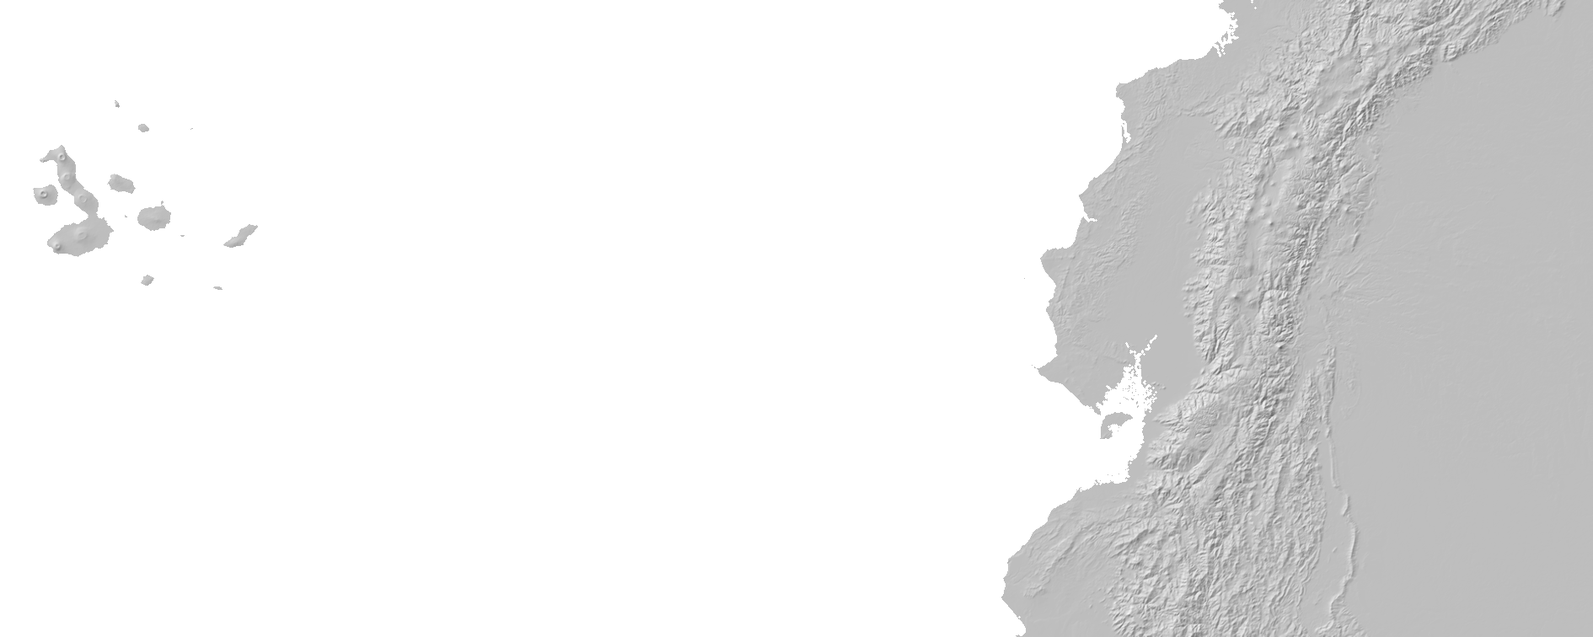
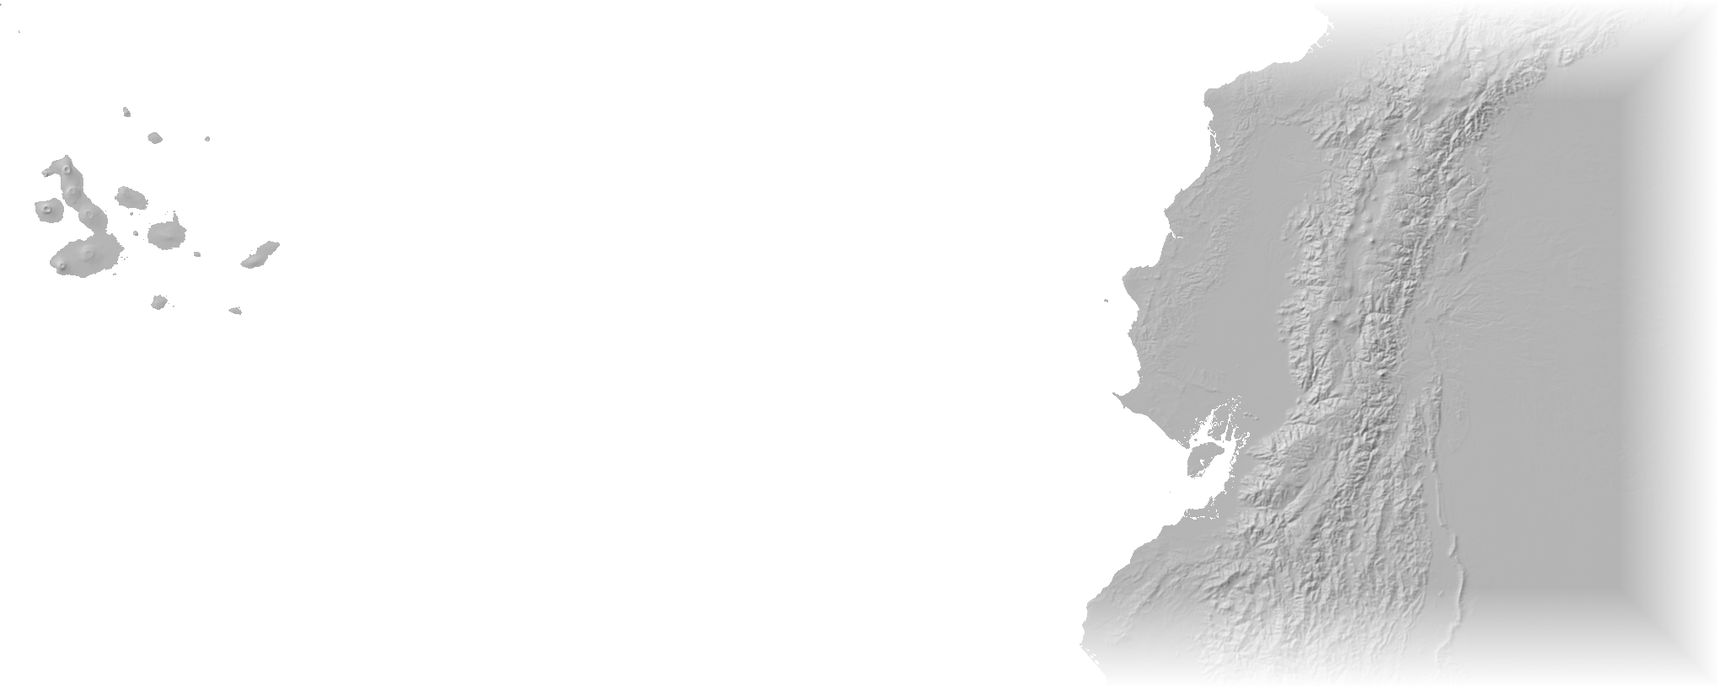
Relieve de la Tierra y de Ecuador desde SRTMGL30 V002 (NASA) y sombreado calculado directo en Mercator para Luna, Marte y Tierra, sin escalones a latitudes altas.

Changed region(s): [[0.6243, 0.0, 1.0, 1.0], [0.6868, 0.5476, 0.7492, 0.7606], [0.0624, 0.2738, 0.0937, 0.3042]]

diff --git a/web/scripts/basemap_relieve.py b/web/scripts/basemap_relieve.py
@@ -1,21 +1,34 @@
 #!/usr/bin/env python3
-"""Relieve sombreado uniforme para el globo del tablero (Luna y Marte, datos NASA PDS).
+"""Relieve sombreado uniforme para el globo del tablero (Luna, Marte y Tierra, datos NASA).
 
-Método (igual para todos los cuerpos):
-  * DEM promediado por área a una malla equirectangular de 2048×1024.
-  * Horn 3×3, acimut geográfico 315° (luz desde el noroeste), altura solar 45°.
-  * Celda métrica a partir del radio del cuerpo: dx = R·Δλ·cos φ, dy = R·Δφ.
-  * Exageración vertical z = tamaño de píxel ecuatorial (m) / 1066.
-  * Salida clip(hs, 0, 1)·255, sin percentiles ni gamma; alfa 255, nodata alfa 0.
-  * Reproyección a Web Mercator 2048×2048 que cubre exactamente las esquinas WORLD
-    de web/src/maps.ts (lon ±179.9°, lat ±85°), para que la capa image de MapLibre
-    ponga cada cráter en su latitud real.
+Método (igual para Luna, Marte y Tierra):
+  * DEM promediado (bloques 3×3) a una malla fina y luego promediado por área exacta
+    directamente en la malla Web Mercator de salida, 2048×2048, que cubre las esquinas WORLD
+    de web/src/maps.ts (lon ±179,9°, lat ±85°). Así cada cráter cae en su latitud real y
+    no hay escalones a latitudes altas.
+  * Horn 3×3 en esa malla, acimut geográfico 315° (luz desde el noroeste), altura solar 45°.
+  * Celda métrica a partir del radio del cuerpo: Mercator es conforme, la celda mide
+    R·Δλ·cos φ en x y en y (= dx = R·Δλ·cos φ, dy = R·Δφ a esta escala).
+  * Exageración vertical z = tamaño de píxel ecuatorial (m) / 1066, una sola por cuerpo.
+  * Salida clip(hs, 0, 1)·255, sin percentiles ni gamma; alfa 255 en tierra, mar/nodata alfa 0.
+  * Ecuador: lo mismo a 30" nativo (≈926,6 m, z = 0,87) sobre AREA_BOUNDS.completo, filas en
+    y de Mercator, con una rampa de alfa de FEATHER_PX píxeles en los bordes del recuadro al
+    este de 82°W, para que no se vea el corte sobre Colombia y Perú (Galápagos no se toca).
 
-Solo lee los IMG originales del PDS (numpy + Pillow, sin GDAL). No toca δ ni el índice.
+Cuerpos: luna (LOLA LDEM_64), marte (MOLA MEGDR 64 ppd), tierra (SRTMGL30 V002, global)
+y ecuador (SRTMGL30 V002 a 30" nativo, recortado a AREA_BOUNDS.completo de maps.ts).
+
+Tierra/Ecuador: los .DEM de SRTMGL30 vienen sin .hdr; formato GTOPO30: int16 big-endian,
+6000 filas × 4800 columnas por tesela de 40° lon × 50° lat, celda 30" (1/120°), esquina
+superior izquierda = nombre de la tesela (p. ej. W100N40 -> lon -100, lat 40). nodata = -9999
+(no aparece en V002) y el mar viene como 0 m: 0 y -9999 se tratan como mar/nodata (alfa 0).
+SRTMGL30 llega solo hasta 60°S: la Antártida queda transparente (alfa 0).
+
+Solo lee los archivos originales (numpy + Pillow, sin GDAL). No toca δ ni el índice.
 
 Uso:
-  python3 web/scripts/basemap_relieve.py luna marte
-  python3 web/scripts/basemap_relieve.py --raw /ruta/a/data/raw --out web/public/basemap luna
+  python3 web/scripts/basemap_relieve.py luna marte tierra ecuador
+  python3 web/scripts/basemap_relieve.py --raw /ruta/a/data/raw --srtm /ruta/teselas --out web/public/basemap tierra
 """
 from __future__ import annotations
 
@@ -29,17 +42,22 @@ from PIL import Image
 AZIMUTH_DEG = 315.0          # geográfico, horario desde el norte
 ALTITUDE_DEG = 45.0
 Z_DIVISOR = 1066.0           # z = tamaño de píxel ecuatorial en metros / 1066
-EQ_W, EQ_H = 2048, 1024      # malla equirectangular de cálculo
+FEATHER_PX = 120             # Ecuador: rampa de alfa en los bordes del recuadro (≈110 km)
+FEATHER_DESDE_LON = -82.0    # solo al este de aquí (continente); Galápagos no se toca
 OUT_W, OUT_H = 2048, 2048    # PNG Web Mercator
 # Esquinas de la capa image en web/src/maps.ts (const WORLD)
 WORLD_LON = 179.9
 WORLD_LAT = 85.0
 
 DEFAULT_RAW = Path("/workspace/analogs/data/raw")
+DEFAULT_SRTM = Path("/workspace/data_nasa/srtmgl30/unz")   # *.DEM descomprimidos
+R_TIERRA = 6371008.8                                        # radio medio IUGG (m)
+# AREA_BOUNDS.completo de web/src/maps.ts (capa hs_ecuador, imageCoords)
+ECUADOR = dict(oeste=-92.007, sur=-5.103, este=-74.997, norte=1.701)
 DEFAULT_OUT = Path(__file__).resolve().parents[1] / "public" / "basemap"
 
 
-# ---------------------------------------------------------------- lectura PDS
+# ---------------------------------------------------------------- lectura
 def _block_mean(src: np.ndarray, scale: float, offset: float, f: int) -> np.ndarray:
     """Promedio por bloques f×f leyendo por franjas (memmap)."""
     h, w = src.shape
@@ -52,111 +70,207 @@ def _block_mean(src: np.ndarray, scale: float, offset: float, f: int) -> np.ndar
     return out
 
 
-def _area_resize(a: np.ndarray, w: int, h: int) -> np.ndarray:
-    im = Image.fromarray(a.astype(np.float32), mode="F")
-    return np.asarray(im.resize((w, h), Image.Resampling.BOX), dtype=np.float64)
+# SRTMGL30 V002: teselas GTOPO30 de 40° lon × 50° lat, celda 30", sin .hdr
+SRTM_ROWS, SRTM_COLS, SRTM_CELL = 6000, 4800, 1.0 / 120.0
 
 
-def leer_luna(raw: Path) -> np.ndarray:
-    """LOLA LDEM_64 (23040×11520, int16 LSB, 0.5 m/DN, lon 0→360 E, fila 0 = 90°N)."""
-    p = raw / "moon/lola_ldem64/ldem_64.img"
-    a = np.memmap(p, dtype="<i2", mode="r", shape=(11520, 23040))
-    return _area_resize(_block_mean(a, 0.5, 0.0, 9), EQ_W, EQ_H)
-
-
-def leer_marte(raw: Path) -> np.ndarray:
-    """MOLA MEGDR 64 ppd (4 teselas 5760×11520, int16 MSB, m sobre el areoide)."""
-    d = raw / "mars/mola_megdr64"
-    t = {k: np.memmap(d / f"megt{k}gb.img", dtype=">i2", mode="r", shape=(5760, 11520))
-         for k in ("90n000", "90n180", "00n000", "00n180")}
-    norte = np.hstack([_block_mean(t["90n000"], 1, 0, 9), _block_mean(t["90n180"], 1, 0, 9)])
-    sur = np.hstack([_block_mean(t["00n000"], 1, 0, 9), _block_mean(t["00n180"], 1, 0, 9)])
-    return _area_resize(np.vstack([norte, sur]), EQ_W, EQ_H)
+def _tesela_srtm(path: Path) -> tuple[np.ndarray, float, float]:
+    n = path.name.upper()
+    lon = (-1 if n[0] == "W" else 1) * int(n[1:4])
+    lat = (-1 if n[4] == "S" else 1) * int(n[5:7])
+    a = np.fromfile(path, dtype=">i2")
+    assert a.size == SRTM_ROWS * SRTM_COLS, path
+    return a.reshape(SRTM_ROWS, SRTM_COLS), lon, lat
 
 
 CUERPOS = {
-    # nombre: (radio m, lector, archivo, fuente)
-    "luna": (1737400.0, leer_luna, "hillshade_luna.png",
+    # nombre: (radio m, archivo, fuente)
+    "luna": (1737400.0, "hillshade_luna.png",
              "LOLA LDEM_64 (LRO-L-LOLA-3-RDR-V1, NASA PDS Geosciences)"),
-    "marte": (3396000.0, leer_marte, "hillshade_marte.png",
+    "marte": (3396000.0, "hillshade_marte.png",
               "MOLA MEGDR 64 ppd MEGT (MGS-M-MOLA-5-MEGDR-L3-V1.0, NASA PDS Geosciences)"),
+    "tierra": (R_TIERRA, "hillshade_tierra.png",
+               "SRTMGL30 V002 (NASA JPL / LP DAAC, doi:10.5067/MEaSUREs/SRTM/SRTMGL30.002)"),
 }
 
 
-# ---------------------------------------------------------------- sombreado
-def horn_hillshade(z: np.ndarray, radius: float, zfactor: float) -> np.ndarray:
-    """Horn 3×3 en malla equirectangular global (lon con vuelta, fila 0 = norte)."""
-    h, w = z.shape
-    dlam = 2 * math.pi / w
-    dphi = math.pi / h
-    lat = (90.0 - (np.arange(h) + 0.5) * 180.0 / h)
-    dx = (radius * dlam * np.cos(np.radians(lat)))[:, None]
-    dy = radius * dphi
-    p = np.pad(z, ((1, 1), (0, 0)), mode="edge")
-    W = lambda a: np.roll(a, 1, axis=1)   # vecino oeste
-    E = lambda a: np.roll(a, -1, axis=1)  # vecino este
-    up, mid, dn = p[:-2], p[1:-1], p[2:]
-    dzdx = ((E(up) + 2 * E(mid) + E(dn)) - (W(up) + 2 * W(mid) + W(dn))) / (8 * dx)
-    dzdn = ((W(up) + 2 * up + E(up)) - (W(dn) + 2 * dn + E(dn))) / (8 * dy)  # hacia el norte
-    nx, ny, nz = -zfactor * dzdx, -zfactor * dzdn, np.ones_like(dzdx)
-    norm = np.sqrt(nx * nx + ny * ny + nz * nz)
-    az, alt = math.radians(AZIMUTH_DEG), math.radians(ALTITUDE_DEG)
-    lx, ly, lz = math.sin(az) * math.cos(alt), math.cos(az) * math.cos(alt), math.sin(alt)
-    return (nx * lx + ny * ly + nz * lz) / norm
+# ------------------------------------------------- malla fina + Mercator nativo
+# El sombreado se calcula directamente en la malla Mercator de salida (2048×2048 sobre WORLD).
+# Cada fila es un promedio por área exacto de la malla fina (1/3 de la resolución nativa),
+# así que a latitudes altas no hay escalones por ampliar una malla gruesa.
+# Mercator es conforme: la celda mide R·Δλ·cos φ en x y en y (pendiente física real en cada fila).
+# z es uno solo por cuerpo: tamaño de píxel ecuatorial (m) / 1066 (Luna 5,00; Marte 9,77;
+# Tierra 18,33), así la misma pendiente física se sombrea igual a cualquier latitud.
+
+def fino_luna(raw: Path):
+    a = np.memmap(raw / "moon/lola_ldem64/ldem_64.img", dtype="<i2", mode="r", shape=(11520, 23040))
+    return _block_mean(a, 0.5, 0.0, 3), None, 0.0, 3 / 64.0          # lon 0 en columna 0
 
 
-# ---------------------------------------------------------------- Mercator
-def a_mercator(hs: np.ndarray) -> np.ndarray:
-    """Remuestrea (bilineal) la malla equirectangular a Web Mercator sobre WORLD."""
-    h, w = hs.shape
+def fino_marte(raw: Path):
+    d = raw / "mars/mola_megdr64"
+    t = {k: np.memmap(d / f"megt{k}gb.img", dtype=">i2", mode="r", shape=(5760, 11520))
+         for k in ("90n000", "90n180", "00n000", "00n180")}
+    z = np.vstack([np.hstack([_block_mean(t["90n000"], 1, 0, 3), _block_mean(t["90n180"], 1, 0, 3)]),
+                   np.hstack([_block_mean(t["00n000"], 1, 0, 3), _block_mean(t["00n180"], 1, 0, 3)])])
+    return z, None, 0.0, 3 / 64.0
+
+
+def fino_tierra(srtm: Path):
+    f = 3
+    res = SRTM_CELL * f                                           # 1/40° ≈ 2,8 km
+    H, W = int(round(180 / res)), int(round(360 / res))
+    elev = np.zeros((H, W), np.float32); land = np.zeros((H, W), np.float32)
+    teselas = sorted(srtm.glob("*.DEM"))
+    assert len(teselas) == 27, f"se esperaban 27 teselas, hay {len(teselas)}"
+    for p in teselas:
+        a, lon, lat = _tesela_srtm(p)
+        ok = (a != -9999) & (a != 0)                               # 0 m = mar en SRTMGL30 V002
+        h, w = SRTM_ROWS // f, SRTM_COLS // f
+        r0, c0 = int(round((90 - lat) / res)), int(round((lon + 180) / res))
+        elev[r0:r0 + h, c0:c0 + w] = np.where(ok, a, 0).astype(np.float32).reshape(h, f, w, f).mean(axis=(1, 3))
+        land[r0:r0 + h, c0:c0 + w] = ok.astype(np.float32).reshape(h, f, w, f).mean(axis=(1, 3))
+    return elev, land, -180.0, res                                  # sur de 60°S: land = 0
+
+
+def _rows_area_mean(a: np.ndarray, top: np.ndarray, bot: np.ndarray) -> np.ndarray:
+    """Promedio exacto por área entre las filas fraccionarias [top, bot) (cumsum interpolado)."""
+    cum = np.vstack([np.zeros((1, a.shape[1])), np.cumsum(a, axis=0, dtype=np.float64)])
+    def C(x):
+        i = np.clip(np.floor(x).astype(int), 0, a.shape[0] - 1)
+        t = (x - i)[:, None]
+        return cum[i] + (cum[i + 1] - cum[i]) * t
+    return (C(bot) - C(top)) / (bot - top)[:, None]
+
+
+def a_mercator_fino(a: np.ndarray, lon0: float, res: float) -> np.ndarray:
+    H, W = a.shape
+    # columnas: promedio por área sobre lon -179,9..179,9
+    sh = int(round((-180.0 - lon0) / res)) % W                    # columna de lon -180
+    a = np.roll(a, -sh, axis=1)
+    x0, x1 = (180 - WORLD_LON) / res, (180 + WORLD_LON) / res
+    im = Image.fromarray(a.astype(np.float32), mode="F")
+    a = np.asarray(im.resize((OUT_W, H), Image.Resampling.BOX, box=(x0, 0, x1, H)), dtype=np.float64)
+    # filas: bordes en y de Mercator, área exacta en latitud
     ymax = math.log(math.tan(math.pi / 4 + math.radians(WORLD_LAT) / 2))
-    y = ymax - (np.arange(OUT_H) + 0.5) * (2 * ymax / OUT_H)
-    lat = np.degrees(np.arctan(np.sinh(y)))
-    lon = -WORLD_LON + (np.arange(OUT_W) + 0.5) * (2 * WORLD_LON / OUT_W)
-    lon360 = np.mod(lon, 360.0)
-    fr = (90.0 - lat) / 180.0 * h - 0.5
-    fc = lon360 / 360.0 * w - 0.5
-    r0 = np.clip(np.floor(fr).astype(int), 0, h - 2); tr = np.clip(fr - r0, 0, 1)
-    c0 = np.floor(fc).astype(int); tc = fc - c0
-    c0m, c1m = np.mod(c0, w), np.mod(c0 + 1, w)
-    R0, R1 = r0[:, None], (r0 + 1)[:, None]
-    TR, TC = tr[:, None], tc[None, :]
-    top = hs[R0, c0m[None, :]] * (1 - TC) + hs[R0, c1m[None, :]] * TC
-    bot = hs[R1, c0m[None, :]] * (1 - TC) + hs[R1, c1m[None, :]] * TC
-    return top * (1 - TR) + bot * TR
+    ye = ymax - np.arange(OUT_H + 1) * (2 * ymax / OUT_H)
+    late = np.degrees(np.arctan(np.sinh(ye)))
+    fr = (90.0 - late) / res
+    return _rows_area_mean(a, fr[:-1], fr[1:])
 
 
-def procesar(nombre: str, raw: Path, out: Path) -> dict:
-    radius, lector, archivo, fuente = CUERPOS[nombre]
-    dem = lector(raw)
-    valid = np.isfinite(dem)
-    dem = np.where(valid, dem, np.nanmedian(dem))
-    px_m = radius * 2 * math.pi / EQ_W
-    zf = px_m / Z_DIVISOR
-    hs = horn_hillshade(dem, radius, zf)
-    hs = np.where(valid, hs, np.nan)
-    merc = a_mercator(np.nan_to_num(hs, nan=0.0))
-    alpha = a_mercator(valid.astype(np.float64)) > 0.5
-    g = np.rint(np.clip(merc, 0, 1) * 255).astype(np.uint8)
+def horn_mercator(z: np.ndarray, radius: float) -> tuple[np.ndarray, np.ndarray]:
+    ymax = math.log(math.tan(math.pi / 4 + math.radians(WORLD_LAT) / 2))
+    yc = ymax - (np.arange(OUT_H) + 0.5) * (2 * ymax / OUT_H)
+    lat = np.degrees(np.arctan(np.sinh(yc)))
+    cell = radius * math.radians(2 * WORLD_LON / OUT_W) * np.cos(np.radians(lat))   # m, conforme
+    zf = np.full_like(cell, radius * math.radians(2 * WORLD_LON / OUT_W) / Z_DIVISOR)
+    p = np.pad(z, ((1, 1), (0, 0)), mode="edge")
+    W_ = lambda a: np.roll(a, 1, axis=1); E_ = lambda a: np.roll(a, -1, axis=1)
+    up, mid, dn = p[:-2], p[1:-1], p[2:]
+    c = cell[:, None]
+    dzdx = ((E_(up) + 2 * E_(mid) + E_(dn)) - (W_(up) + 2 * W_(mid) + W_(dn))) / (8 * c)
+    dzdn = ((W_(up) + 2 * up + E_(up)) - (W_(dn) + 2 * dn + E_(dn))) / (8 * c)
+    nx, ny = -zf[:, None] * dzdx, -zf[:, None] * dzdn
+    norm = np.sqrt(nx * nx + ny * ny + 1)
+    az, alt = math.radians(AZIMUTH_DEG), math.radians(ALTITUDE_DEG)
+    hs = (nx * math.sin(az) * math.cos(alt) + ny * math.cos(az) * math.cos(alt) + math.sin(alt)) / norm
+    return hs, zf
+
+
+FINOS = {"luna": fino_luna, "marte": fino_marte, "tierra": fino_tierra}
+
+
+def procesar(nombre: str, raw: Path, out: Path, srtm: Path = DEFAULT_SRTM) -> dict:
+    radius, archivo, fuente = CUERPOS[nombre]
+    z, frac, lon0, res = FINOS[nombre](srtm if nombre == "tierra" else raw)
+    zm = a_mercator_fino(z, lon0, res); del z
+    alpha = (a_mercator_fino(frac, lon0, res) >= 0.5) if frac is not None else np.ones_like(zm, bool)
+    hs, zf = horn_mercator(zm, radius)
+    g = np.rint(np.clip(hs, 0, 1) * 255).astype(np.uint8)
     rgba = np.dstack([g, g, g, np.where(alpha, 255, 0).astype(np.uint8)])
     out.mkdir(parents=True, exist_ok=True)
     Image.fromarray(rgba, mode="RGBA").save(out / archivo, format="PNG", optimize=True)
     info = dict(cuerpo=nombre, archivo=archivo, fuente=fuente, radio_m=radius,
-                pixel_ecuatorial_m=round(px_m, 1), z=round(zf, 3),
-                negro_puro_pct=round(float((g == 0).mean() * 100), 2),
-                media=round(float(g.mean()), 1))
+                pixel_ecuatorial_m=round(radius * math.radians(2 * WORLD_LON / OUT_W), 1),
+                z=round(float(zf[0]), 3),
+                negro_puro_pct=round(float((g[alpha] == 0).mean() * 100), 2),
+                blanco_puro_pct=round(float((g[alpha] == 255).mean() * 100), 2),
+                media=round(float(g[alpha].mean()), 1), visible_pct=round(float(alpha.mean() * 100), 1))
+    print(info)
+    return info
+
+
+def procesar_ecuador(srtm: Path, out: Path) -> dict:
+    """SRTMGL30 a 30" nativo sobre AREA_BOUNDS.completo (incluye Galápagos), filas en Mercator."""
+    b = ECUADOR
+    a, lon0, lat0 = _tesela_srtm(next(p for p in srtm.glob("*.DEM") if p.name.upper().startswith("W100N40")))
+    assert (lon0, lat0) == (-100, 40)
+    pad = 2
+    r0 = int(math.floor((lat0 - b["norte"]) / SRTM_CELL)) - pad
+    r1 = int(math.ceil((lat0 - b["sur"]) / SRTM_CELL)) + pad
+    c0 = int(math.floor((b["oeste"] - lon0) / SRTM_CELL)) - pad
+    c1 = int(math.ceil((b["este"] - lon0) / SRTM_CELL)) + pad
+    sub = a[r0:r1, c0:c1].astype(np.float64)
+    land = (sub != -9999) & (sub != 0)
+    z = np.where(land, sub, 0.0)
+    px_m = R_TIERRA * math.radians(SRTM_CELL)            # ≈ 926,6 m
+    zf = px_m / Z_DIVISOR
+    # Horn con celda métrica (dx = R·Δλ·cos φ por fila, dy = R·Δφ), sin vuelta en longitud
+    lat_c = lat0 - (r0 + np.arange(sub.shape[0]) + 0.5) * SRTM_CELL
+    dx = (px_m * np.cos(np.radians(lat_c)))[1:-1, None]
+    dy = px_m
+    up, mid, dn = z[:-2], z[1:-1], z[2:]
+    L = lambda m: m[:, :-2]; C = lambda m: m[:, 1:-1]; Rr = lambda m: m[:, 2:]
+    dzdx = ((Rr(up) + 2 * Rr(mid) + Rr(dn)) - (L(up) + 2 * L(mid) + L(dn))) / (8 * dx)
+    dzdn = ((L(up) + 2 * C(up) + Rr(up)) - (L(dn) + 2 * C(dn) + Rr(dn))) / (8 * dy)
+    nx, ny = -zf * dzdx, -zf * dzdn
+    norm = np.sqrt(nx * nx + ny * ny + 1)
+    az, alt = math.radians(AZIMUTH_DEG), math.radians(ALTITUDE_DEG)
+    hs = (nx * math.sin(az) * math.cos(alt) + ny * math.cos(az) * math.cos(alt) + math.sin(alt)) / norm
+    land_c = land[1:-1, 1:-1].astype(np.float64)
+    gr0, gc0 = r0 + 1, c0 + 1                              # índice de tesela de hs[0,0]
+    # salida: columnas lineales en lon, filas lineales en y de Mercator; 30" en el ecuador
+    W = int(round((b["este"] - b["oeste"]) / SRTM_CELL))
+    merc = lambda la: math.log(math.tan(math.pi / 4 + math.radians(la) / 2))
+    yn, ys = merc(b["norte"]), merc(b["sur"])
+    H = int(round((yn - ys) / math.radians(SRTM_CELL)))
+    lat = np.degrees(np.arctan(np.sinh(yn - (np.arange(H) + 0.5) * (yn - ys) / H)))
+    lon = b["oeste"] + (np.arange(W) + 0.5) * (b["este"] - b["oeste"]) / W
+    fr = (lat0 - lat) / SRTM_CELL - 0.5 - gr0
+    fc = (lon - lon0) / SRTM_CELL - 0.5 - gc0
+    def bil(m):
+        i0 = np.clip(np.floor(fr).astype(int), 0, m.shape[0] - 2); ti = np.clip(fr - i0, 0, 1)[:, None]
+        j0 = np.clip(np.floor(fc).astype(int), 0, m.shape[1] - 2); tj = np.clip(fc - j0, 0, 1)[None, :]
+        I0, I1, J0, J1 = i0[:, None], i0[:, None] + 1, j0[None, :], j0[None, :] + 1
+        return (m[I0, J0] * (1 - tj) + m[I0, J1] * tj) * (1 - ti) + (m[I1, J0] * (1 - tj) + m[I1, J1] * tj) * ti
+    g = np.rint(np.clip(bil(hs), 0, 1) * 255).astype(np.uint8)
+    yy, xx = np.mgrid[0:H, 0:W]
+    edge = np.minimum(np.minimum(yy, H - 1 - yy), np.minimum(xx, W - 1 - xx)).astype(np.float64)
+    ramp = np.clip((edge + 0.5) / FEATHER_PX, 0, 1)
+    ramp[:, lon < FEATHER_DESDE_LON] = 1.0
+    alpha = np.rint(np.where(bil(land_c) >= 0.5, 255.0, 0.0) * ramp).astype(np.uint8)
+    out.mkdir(parents=True, exist_ok=True)
+    Image.fromarray(np.dstack([g, g, g, alpha]), mode="RGBA").save(out / "hillshade_ecuador.png", format="PNG", optimize=True)
+    info = dict(cuerpo="ecuador", archivo="hillshade_ecuador.png", tamano=f"{W}x{H}", bounds=b,
+                pixel_m=round(px_m, 1), z=round(zf, 3), tierra_pct=round(float((alpha > 0).mean() * 100), 1), feather_px=FEATHER_PX)
     print(info)
     return info
 
 
 def main():
     ap = argparse.ArgumentParser(description=__doc__, formatter_class=argparse.RawDescriptionHelpFormatter)
-    ap.add_argument("cuerpos", nargs="*", default=["luna", "marte"], choices=sorted(CUERPOS))
+    ap.add_argument("cuerpos", nargs="*", choices=sorted([*CUERPOS, "ecuador"]),
+                    help="por defecto: luna marte tierra ecuador")
     ap.add_argument("--raw", type=Path, default=DEFAULT_RAW)
+    ap.add_argument("--srtm", type=Path, default=DEFAULT_SRTM)
     ap.add_argument("--out", type=Path, default=DEFAULT_OUT)
     a = ap.parse_args()
-    for c in a.cuerpos:
-        procesar(c, a.raw, a.out)
+    for c in a.cuerpos or ["luna", "marte", "tierra", "ecuador"]:
+        if c == "ecuador":
+            procesar_ecuador(a.srtm, a.out)
+        else:
+            procesar(c, a.raw, a.out, a.srtm)
 
 
 if __name__ == "__main__":

diff --git a/docs/fuentes_datos_nasa.md b/docs/fuentes_datos_nasa.md
@@ -14,7 +14,7 @@ Esta revisión no cambia el DEM, el índice ni Supabase. Ronald pidió esperar s
 |---|---|---|---|---|---|---|---|
 | MOLA MEGDR 64 ppd (teselas `megt*gb`) | NASA PDS Geosciences Node (Mars Global Surveyor) | Sí | https://pds-geosciences.wustl.edu/missions/mgs/megdr.html | https://pds-geosciences.wustl.edu/mgs/mgs-m-mola-5-megdr-l3-v1/mgsl_300x/meg064/ (ej. `megt00n000gb.img` y `.lbl`) | No tiene; se cita por el volumen PDS `MGS-M-MOLA-5-MEGDR-L3-V1.0` | 200 / 200 / 200 | Marte: elevación, pendiente Horn, TRI, firmas por banda A–G, δ Marte, hillshade de Marte |
 | LOLA LDEM_64 (v3.1 según la v1 congelada) | NASA PDS Geosciences Node (Lunar Reconnaissance Orbiter) | Sí | https://pds-geosciences.wustl.edu/missions/lro/lola.htm | https://pds-geosciences.wustl.edu/lro/lro-l-lola-3-rdr-v1/lrolol_1xxx/data/lola_gdr/cylindrical/img/ldem_64.img (y `ldem_64.lbl`) | No tiene; volumen PDS `LRO-L-LOLA-3-RDR-V1.0` | 200 / 200 / 200 | Luna: elevación, pendiente, TRI, firmas por banda, δ Luna, hillshade lunar |
-| Copernicus DEM GLO-90 | ESA / Programa Copernicus (UE), con datos de Airbus | **No** | https://dataspace.copernicus.eu/explore-data/data-collections/copernicus-contributing-missions/collections-description/COP-DEM | https://copernicus-dem-90m.s3.amazonaws.com/tileList.txt y `…/{TILE}/{TILE}.tif` | 10.5270/ESA-c5d3d65 | 200 / 200 | **Lo que usa hoy la Tierra**: elevación, pendiente y TRI de Ecuador, Galápagos y las ventanas de validación; máscara de agua (0 m exacto); hillshade de Ecuador |
+| Copernicus DEM GLO-90 | ESA / Programa Copernicus (UE), con datos de Airbus | **No** | https://dataspace.copernicus.eu/explore-data/data-collections/copernicus-contributing-missions/collections-description/COP-DEM | https://copernicus-dem-90m.s3.amazonaws.com/tileList.txt y `…/{TILE}/{TILE}.tif` | 10.5270/ESA-c5d3d65 | 200 / 200 | **Lo que usa hoy la Tierra**: elevación, pendiente y TRI de Ecuador, Galápagos y las ventanas de validación; máscara de agua (0 m exacto). (El hillshade de Ecuador ya no usa GLO-90: desde el 14 nov 2026 sale de SRTMGL30) |
 | **NASADEM_HGT v001**, la sustitución propuesta | NASA JPL / LP DAAC (Earthdata) | Sí | https://www.earthdata.nasa.gov/data/catalog/lpcloud-nasadem-hgt-001 (lpdaac.usgs.gov/products/nasadem_hgtv001/ redirige aquí) | Búsqueda: https://search.earthdata.nasa.gov/search/granules?p=C2763264762-LPCLOUD · Tesela de ejemplo: https://data.lpdaac.earthdatacloud.nasa.gov/lp-prod-protected/NASADEM_HGT.001/NASADEM_HGT_s01w080/NASADEM_HGT_s01w080.zip (pide inicio de sesión gratuito en Earthdata) · Guía: https://lpdaac.usgs.gov/documents/2237/NASADEM_User_Guide_V13.pdf | 10.5067/MEaSUREs/NASADEM/NASADEM_HGT.001 | 200 / 200 / 200 (redirige al login de Earthdata) / 200 | Reemplazaría a GLO-90 en la Tierra. 1 arcsec, geoide **EGM96** (no EGM2008). La capa `swb` (0 = tierra, 255 = agua) sirve como máscara de agua oficial |
 
 ## 2. Capas de contexto, polígonos y visualización
@@ -25,7 +25,8 @@ Esta revisión no cambia el DEM, el índice ni Supabase. Ronald pidió esperar s
 | Anuncio NASA de las 9 regiones Artemis III (comunicado 24-136, 28 oct 2024) | NASA HQ | Sí | https://www.nasa.gov/news-release/nasa-provides-update-on-artemis-iii-moon-landing-regions/ | No tiene (comunicado con mapa) | No tiene | 200 | Fuente primaria de las regiones |
 | LROC QuickMap | LROC / ASU, misión LRO de NASA | Sí (misión NASA, operada por ASU) | https://quickmap.lroc.asu.edu/ (redirige a quickmap.lroc.im-ldi.com) | Herramienta interactiva | No tiene | 206 | Según el metadato USGS, de aquí salen los polígonos de las regiones |
 | GADM 4.1, Ecuador (provincia Galápagos) | GADM / Universidad de California, Davis | **No** | https://gadm.org/ | https://geodata.ucdavis.edu/gadm/gadm4.1/shp/gadm41_ECU_shp.zip | No tiene | 200 / 200 | Polígonos por isla para contar celdas en Galápagos (`docs/galapagos_celdas_por_isla.md`) |
-| Natural Earth (110m land y SR_50M) | Natural Earth (NACIS), dominio público | **No** | https://www.naturalearthdata.com/ | Desde la misma web | No tiene | 200 | Contorno de tierra y hillshade del globo terrestre en el dashboard (`web/public/basemap/`) |
+| Natural Earth 110m land | Natural Earth (NACIS), dominio público | **No** | https://www.naturalearthdata.com/ | Desde la misma web | No tiene | 200 | **Solo el contorno de tierra** del globo terrestre (`web/public/basemap/ne_110m_land.geojson`, capas `land-fill` y `land-line`). Desde el 14 nov 2026 ya no se usa su relieve SR_50M |
+| SRTMGL30 V002 (NASA Shuttle Radar Topography Mission Global 30 arc second) | NASA JPL / LP DAAC (Earthdata) | Sí | https://www.earthdata.nasa.gov/data/catalog/lpcloud-srtmgl30-002 | 27 teselas `*.SRTMGL30.dem.zip` desde Earthdata (pide inicio de sesión gratuito) · Guía: https://lpdaac.usgs.gov/documents/179/SRTM_User_Guide_V3.pdf | 10.5067/MEaSUREs/SRTM/SRTMGL30.002 | 200 / 200 (DOI resuelve a la ficha) | Relieve del globo terrestre (`hillshade_tierra.png`) y relieve de Ecuador y Galápagos (`hillshade_ecuador.png`). Cubre 90°N–60°S. SRTM solo midió entre 60°N y 56°S (ficha LP DAAC), así que al norte de 60°N los valores no son SRTM: la ficha dice que el producto se armó para corresponder con GTOPO30 (USGS), que es de donde se espera que salgan, aunque la ficha de V002 no lo dice textualmente. Sin Antártida (queda transparente). **Solo visual: no entra en el índice ni en δ** |
 
 ## 3. Métodos
 
@@ -74,8 +75,8 @@ Son artículos y fichas de sitio que justifican la etiqueta de cada sitio. **No 
 |---|---|---|
 | Copernicus GLO-90 (Tierra: elevación, pendiente, TRI) | **NASADEM_HGT v001**, DOI 10.5067/MEaSUREs/NASADEM/NASADEM_HGT.001 | Sí, 200. Cambia el geoide (EGM96 en lugar de EGM2008) y hay que recalcular. Queda pendiente del modelo de Ronald |
 | Máscara de agua de Galápagos (0 m exacto de GLO-90) | Capa `swb` de NASADEM. Otra opción: MODIS MOD44W v061 (https://www.earthdata.nasa.gov/data/catalog/lpcloud-mod44w-061, DOI 10.5067/MODIS/MOD44W.061) o SRTMSWBD v003 (https://www.earthdata.nasa.gov/data/catalog/lpcloud-srtmswbd-003, DOI 10.5067/MEaSUREs/SRTM/SRTMSWBD.003) | Sí, todas 200 |
-| Hillshade de Ecuador (de GLO-90) | Recalcularlo desde NASADEM | — |
-| Natural Earth (contorno y relieve del globo) | Relieve: NASA Blue Marble (https://science.nasa.gov/earth/earth-observatory/collections/blue-marble/, 200) o un hillshade de NASADEM. Contorno: derivarlo de MOD44W. No hay un "contorno de continentes" NASA listo para usar | Sí |
+| ~~Hillshade de Ecuador (de GLO-90)~~ | **Hecho (14 nov 2026):** ahora sale de SRTMGL30 V002 (NASA), DOI 10.5067/MEaSUREs/SRTM/SRTMGL30.002 | Sí |
+| Natural Earth (contorno del globo) | **Relieve: hecho (14 nov 2026)**, el SR_50M se reemplazó por SRTMGL30 V002. **Contorno: sigue siendo Natural Earth 110m**, porque la NASA no publica un contorno de continentes listo para usar; se podría derivar de MOD44W | Sí |
 | GADM (polígonos de las islas de Galápagos) | **No hay un equivalente NASA directo** con nombres de islas. Se pueden sacar los contornos de tierra con NASADEM `swb` o MOD44W, pero los nombres habría que asignarlos a mano | — |
 | Regiones Artemis USGS (McClernan 2024) | La fuente primaria es la NASA: comunicado 24-136 (200). Según el metadato USGS, los polígonos salen de LROC QuickMap (misión LRO de NASA). La NASA no publica un shapefile propio. La v1 no los usa | Sí |
 | Citas de sitios (revistas, AmeriFlux/FLUXNET del DOE, MITECO, USGS) | No aplica: son literatura, no datos | — |
@@ -86,3 +87,7 @@ Son artículos y fichas de sitio que justifican la etiqueta de cada sitio. **No 
 2. TRI: donde se atribuía a Riley et al. 1999, ahora se cita Wilson, M. F. J. et al. (2007), *Marine Geodesy* 30, DOI 10.1080/01490410701295962. Es la definición que usa el código: media de las diferencias absolutas con los 8 vecinos (`pipeline_real/terrain.py`, `slope_and_tri`).
 3. Las regiones Artemis USGS figuran como dato, pero la v1 congelada no las usa.
 4. El README (sección inglesa) dice "real MOLA, LOLA and GLO-90 data". Si se cambia a NASADEM, hay que actualizarlo junto con `docs/galapagos_mascara_agua.md`, que hoy dice que no se mezcla NASADEM.
+
+## 7. Relieve del globo (14 de noviembre de 2026)
+
+Los cuatro relieves del dashboard (`web/public/basemap/hillshade_{luna,marte,tierra,ecuador}.png`) se generan con `web/scripts/basemap_relieve.py` con un solo método: Horn 3×3, luz desde el noroeste (315°) a 45°, celda métrica según el radio de cada cuerpo, z = tamaño de píxel ecuatorial / 1066, sin percentiles ni gamma, reproyectados a Web Mercator sobre las esquinas `WORLD` de `maps.ts`. Las fuentes son todas NASA: LOLA LDEM_64 (Luna), MOLA MEGDR 64 ppd (Marte) y SRTMGL30 V002 (Tierra y Ecuador). El detalle está en `web/public/basemap/FUENTE.txt`. Lo único no NASA que queda en el globo terrestre es el contorno de Natural Earth 110m. Estos relieves son solo visuales: no cambian el índice, δ ni Supabase.
